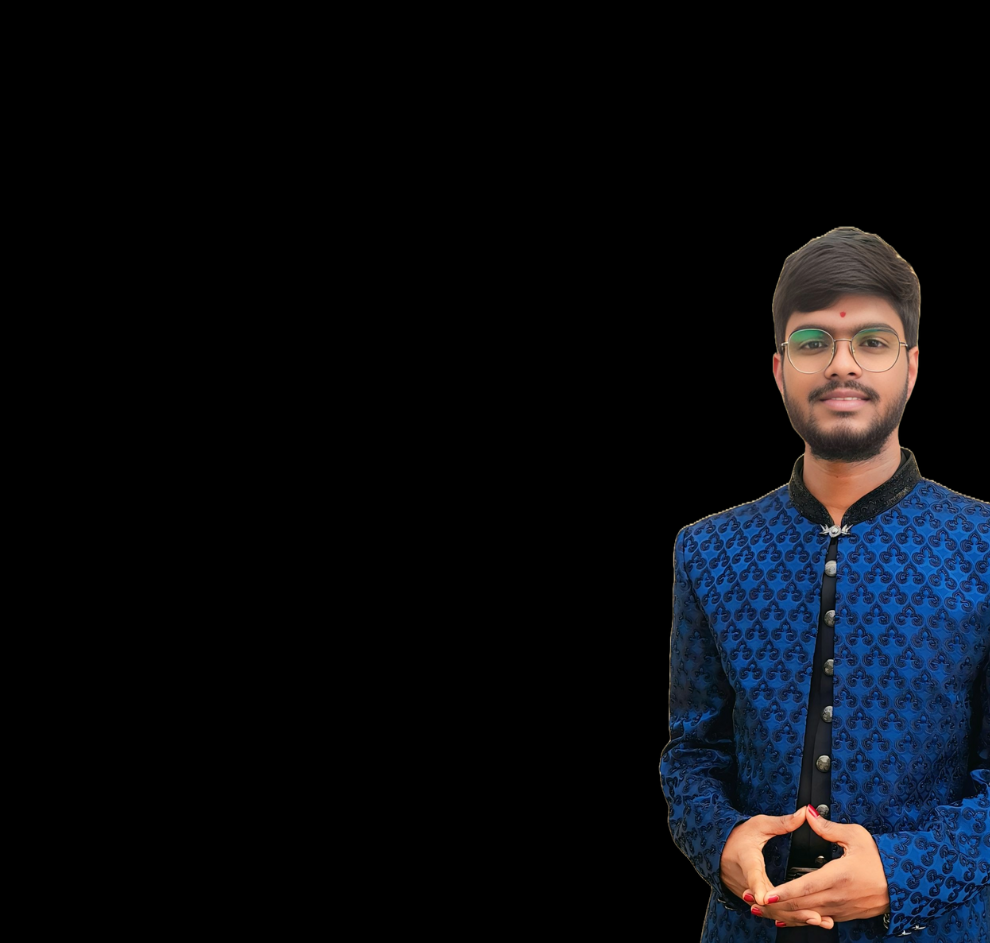
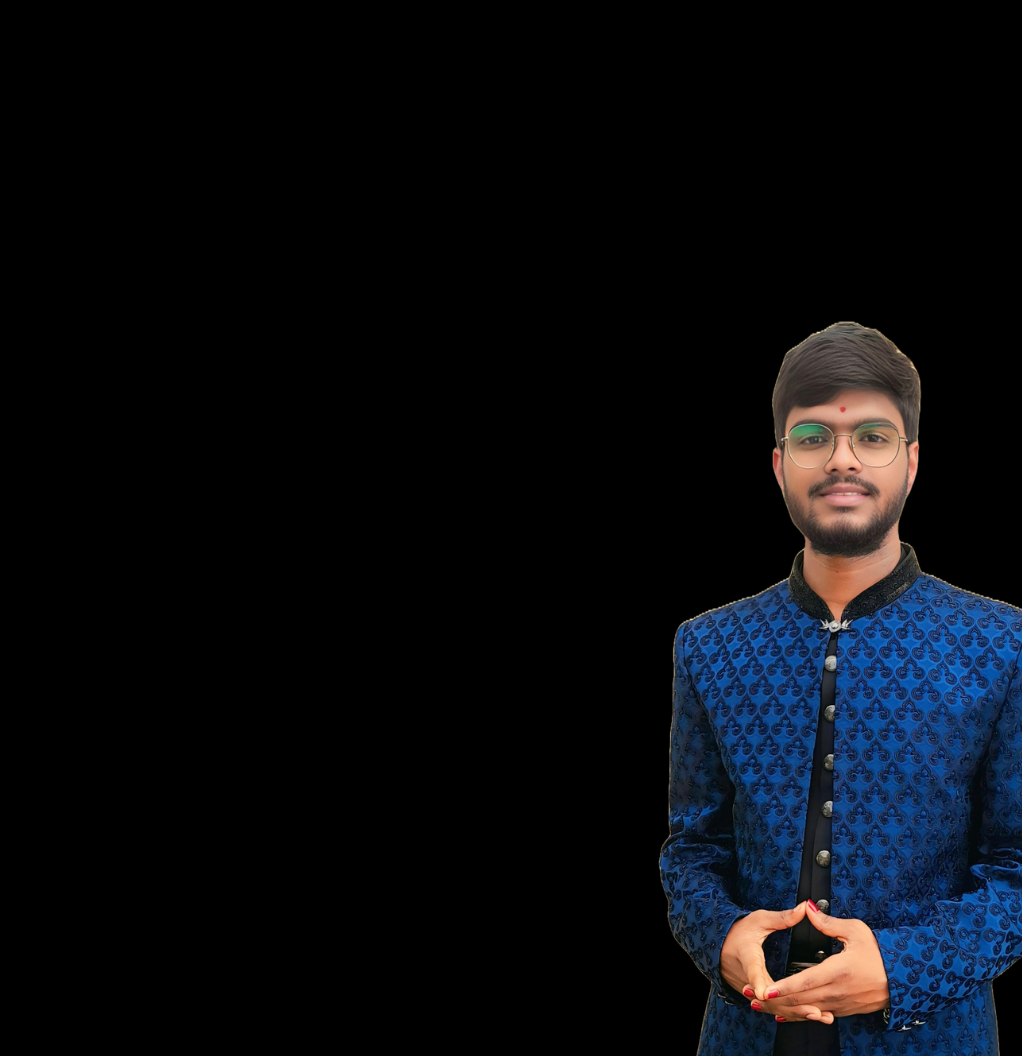
bacground change

Changed region(s): [[0.6364, 0.2153, 1.0, 1.0]]

diff --git a/CSS/style.css b/CSS/style.css
@@ -120,10 +120,69 @@ body{
 }
 #header{
     width: 100%;
-    height: 100vh;
+    min-height: 100vh;
+    display: flex;
+    align-items: center;
     background-image: url("../assets/background1.png");
     background-size: cover;
-    background-position: center;
+    background-position: center center;
+    background-repeat: no-repeat;
+    background-attachment: scroll;
+    position: relative;
+    z-index: 2;
+}
+
+.header-text {
+    width: 100%;
+    max-width: 680px;
+    margin: 0 auto;
+    text-shadow: 0 3px 20px #151f2a85;
+    position: relative;
+    background: rgba(7,33,51,0.12);
+    border-radius: 12px;
+    padding: 2vw 3vw 2vw 3vw;
+    box-sizing: border-box;
+    z-index: 3;
+    backdrop-filter: blur(0.5px);
+}
+
+@media only screen and (max-width: 900px) {
+  #header {
+    min-height: 80vh;
+    padding-top: 36px;
+    background-attachment: scroll;
+    background-position: center top;
+  }
+  .header-text {
+    max-width: 93vw;
+    font-size: 16px;
+    margin: 0 2vw;
+    padding: 18px 10px 22px 10px;
+  }
+}
+
+@media only screen and (max-width: 600px) {
+  #header {
+    min-height: 58vh;
+    height: auto;
+    background-image: url("../assets/background1Copy.png");
+    background-attachment: scroll;
+    background-size: cover;
+    background-position: center center;
+    padding-top: 0;
+    padding-bottom: 16px;
+  }
+  .header-text {
+    max-width: 99vw;
+    margin-top: 40px;
+    font-size: 15px;
+    padding: 13px 6px 16px 6px;
+  }
+  #about {
+    margin-top: 0;
+    padding-top: 0;
+    clear: both;
+  }
 }
 .logo{
     width: 140px;
